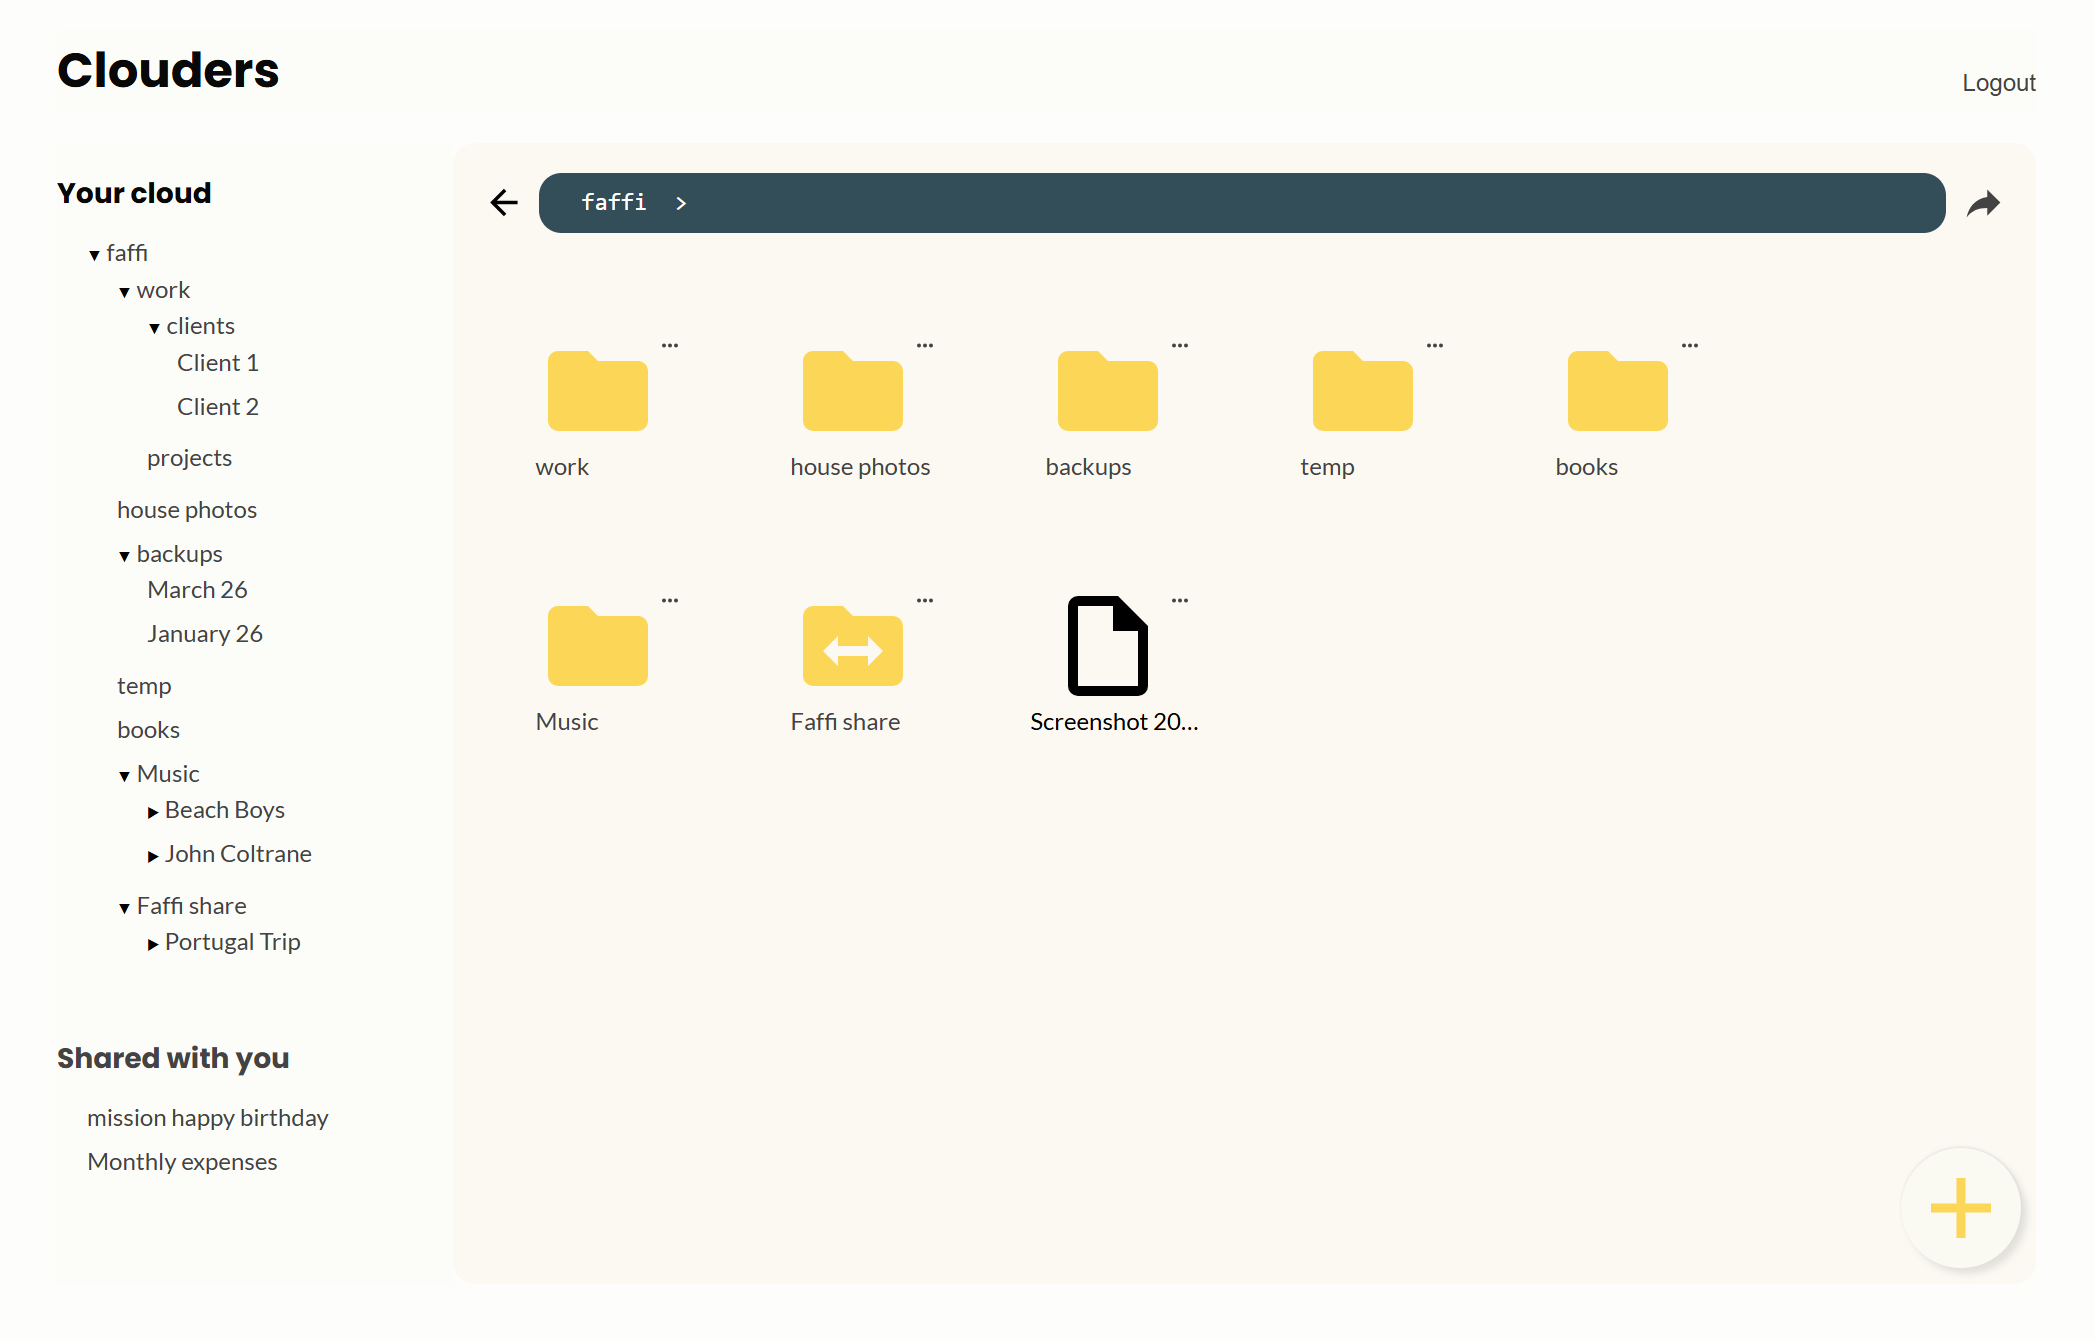
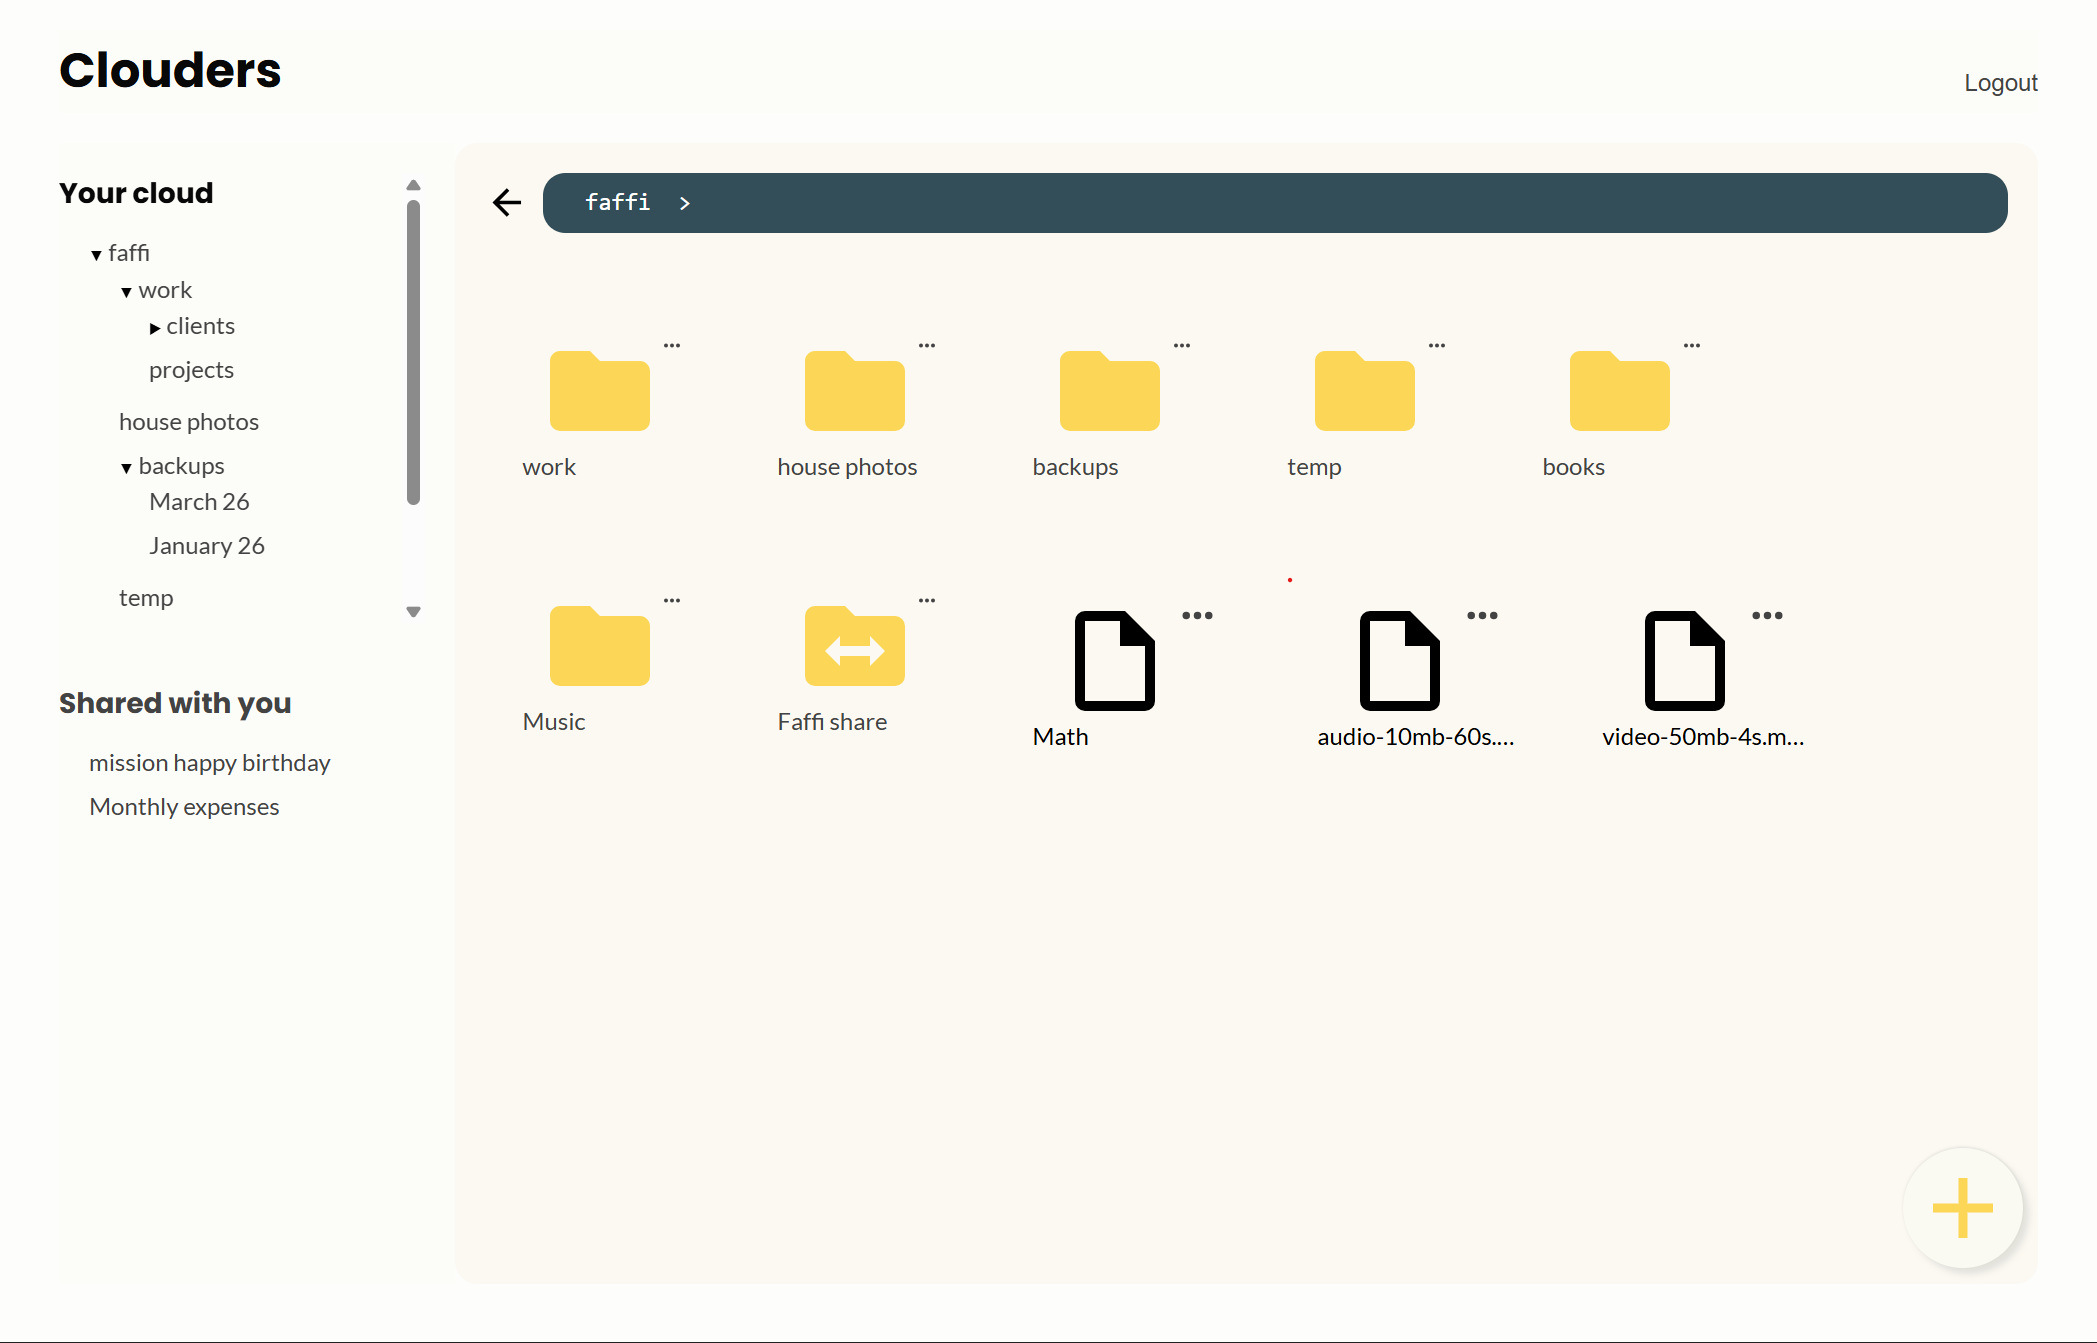
docs(readme): up to date with features

diff --git a/README.md b/README.md
@@ -1,6 +1,10 @@
 # ☁ Clouders
 
-A lightweight Google Drive-inspired web application built with **Express**, **EJS**, and **Prisma**. Clouders allows authenticated users to upload, organize, and manage files through a server-rendered interface with permission-based access control.
+A lightweight Google Drive-inspired file management platform built with **Express**, **EJS**, **Prisma**, and **PostgreSQL**.
+
+![Dashboard](assets/folder.png)
+
+Clouders allows authenticated users to upload, organize, preview, share and manage files through a server-rendered interface with permission-based access control. Uploaded files are stored in **Supabase Storage**, enabling persistent cloud storage and supporting files up to **100 MB**.
 
 > This project was built as a full-stack exercise to explore authentication, authorization, file management, relational database modeling, and MVC application architecture.
 
@@ -8,6 +12,9 @@ A lightweight Google Drive-inspired web application built with **Express**, **EJ
 ## 🚀 Live Demo
 
 https://clouders-uset.onrender.com
+
+> [!NOTE]
+>The application is deployed on Render's free tier. > If the service has been idle, the first request may > take around a minute while the server wakes up.
 
 ### Demo Account
 
@@ -23,11 +30,14 @@ Password: `faffi`
 - 👤 Secure password hashing using bcrypt
 - 💾 Persistent user sessions
 - 📁 Create and organize folders
-- 🧭 File explorer-like navigation with breadcrumbs
+- 🧭 File explorer-like navigation with interactive breadcrumbs
 - 🌳 Collapsible folder tree sidebar for quick navigation
-- 📄 Upload, browser-supported preview and download of files
+- 📤 Upload files up to 100 MB
+- ☁ Persistent object storage powered by Supabase Storage
+- 👀 In-browser preview for supported file types
+- 📥 File download support
 - 🤝 Share folders with other users
-- 🔑 Permission-based access control:
+- 🔑 Permission-based access control
   - Read permissions
   - Write permissions
   - Permission inheritance from parent folders
@@ -44,6 +54,7 @@ Password: `faffi`
 * Express.js
 * Prisma ORM
 * PostgreSQL
+* Supabase Storage
 
 ### Frontend
 
@@ -62,9 +73,13 @@ Password: `faffi`
 
 * Multer
 
+
 ---
 
 ## Access Control
+
+>[!NOTE]
+>Folder ownership, permissions, and inheritance are enforced entirely on the server, preventing unauthorized access even when requests are manually crafted.
 
 Clouders implements a permission-based authorization system for shared folders.
 
@@ -76,6 +91,22 @@ Users can share folders with other registered users and assign different access 
 Permissions are inherited through the folder hierarchy, allowing access rules to be applied consistently across nested folders.
 
 All permissions are validated server-side before performing protected operations.
+
+---
+
+## Architecture
+
+```text
+                Client
+                   │
+             Express + EJS
+                   │
+      ┌────────────┴────────────┐
+      │                         │
+   Prisma ORM          Supabase Storage
+      │                         │
+ PostgreSQL             Uploaded Files
+```
 
 ---
 
@@ -97,20 +128,39 @@ The application follows a modular architecture where routing, authentication, da
 
 ---
 
+## File Preview
+
+Clouders provides an integrated preview page for files supported by modern browsers.
+
+Currently supported preview types include:
+
+- 📝 Plain text
+- 🖼 Images
+- 🎵 Audio
+- 🎬 Video
+- 📄 PDF documents
+
+Unsupported file types can still be downloaded normally.
+
+---
+
 ## Screenshots
 
 ### Login
 
-![Login](/public/assets/login.png)
+![Login](assets/login.png)
 
 
 ### Upload
 
-![Upload](/public/assets/upload.png)
+![Upload](assets/upload.png)
 
-### Folder View
+### Folder
 
-![Folder](/public/assets/folder.png)
+![Folder](assets/folder.png)
+
+### Preview
+![Preview](assets/preview.png)
 
 ---
 
@@ -137,4 +187,6 @@ Building Clouders helped me improve my understanding of:
 * Building reusable Express middleware for authentication and validation
 * Structuring server-side rendered applications with EJS
 * Separating routing, business logic, database operations, and utilities into maintainable modules
+* Integrating cloud object storage with Supabase Storage
+* Separating file metadata from binary file storage
 
